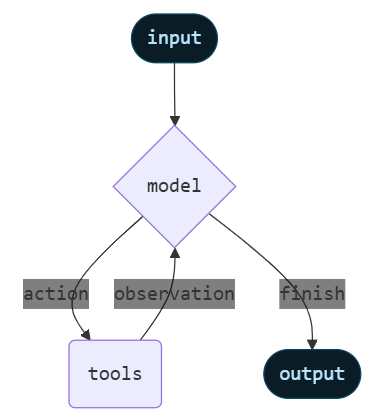
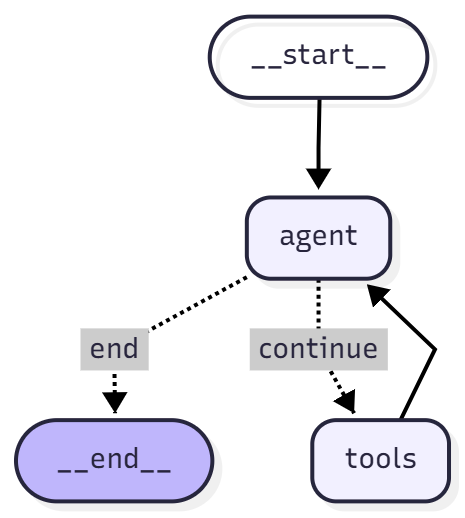
fix custom llm tool calling...

diff --git a/llm_integration/llm_client.py b/llm_integration/llm_client.py
@@ -4,9 +4,15 @@ from langchain_core.messages.ai import AIMessage
 from langchain_core.callbacks.manager import CallbackManagerForLLMRun
 from langchain_core.outputs import ChatResult
 from langchain_core.outputs.chat_generation import ChatGeneration
-from typing import Any
+from langchain_core.tools.base import BaseTool
+from langchain_core.runnables.base import Runnable
+from langchain_core.language_models.base import LanguageModelInput
+from langchain_core.utils.function_calling import convert_to_openai_tool
+from langchain.messages import ToolCall
 import os
 from groq import Groq
+import typing
+from typing import Any, Sequence, Callable, Optional, List, Dict
 import sys
 sys.stderr = open(os.devnull, 'w')
 
@@ -15,7 +21,7 @@ class LLMClient:
     def __init__(self):
         self.api_key = os.environ.get('GROQ_API_KEY')
         self.client = Groq(api_key=self.api_key)
-        self.model = "llama-3.3-70b-versatile"
+        self.model = "qwen/qwen3-32b" #'llama-3.1-8b-instant' #"llama-3.3-70b-versatile"
 
     def generate_response(self, prompt: str) -> Any:
         """Generate a response from the LLM."""
@@ -27,11 +33,13 @@ class LLMClient:
                 }
             ],
             model=self.model,
+            include_reasoning=False,
         )
         return chat_completion.choices[0].message.content
 
 class OpenLLM(BaseChatModel):
     llm: LLMClient = LLMClient()
+    bound_tools: Optional[List[Dict]] = None
 
     def _generate(
         self,
@@ -51,11 +59,65 @@ class OpenLLM(BaseChatModel):
         Returns:
             The chat result.
         """
-        prompt = "\n".join([message.content for message in messages])
+        system_instruction = ""
+        if self.bound_tools:
+            tools_json = [t["function"] for t in self.bound_tools]
+            system_instruction = (
+                f"\nYou have access to the following tools:\n{tools_json}\n"
+                "If you need to use a tool, output ONLY a JSON object with 'name' and 'arguments'."
+            )
+
+        prompt = messages[-1].content + system_instruction
         response_text = self.llm.generate_response(prompt)
-        generation = ChatGeneration(message=AIMessage(content=response_text))
+
+        message_kwargs = {}
+        tool_calls = []
+        
+        try:
+            # Simple check: assumes model outputs pure JSON for tools
+            import json, uuid
+            if "{" in response_text and "}" in response_text:
+                response_text = response_text.split('json')[-1].split('```')[0]
+                data = json.loads(response_text)
+                if "name" in data and "arguments" in data:
+                    tool_calls.append({
+                        "name":data["name"],
+                        "args":data["arguments"],
+                        "id":uuid.uuid4().hex,
+                        "type": "tool_call"
+                    })
+        except Exception:
+            pass
+        final_message = AIMessage(
+            content=response_text if not tool_calls else "",
+            tool_calls=tool_calls,
+        )
+        generation = ChatGeneration(message=final_message)
         return ChatResult(generations=[generation])
     
     def _llm_type(self) -> str:
         return "openllm"
     
+    def bind_tools(
+        self,
+        tools: Sequence[
+            typing.Dict[str, Any] | type | Callable | BaseTool  # noqa: UP006
+        ],
+        *,
+        tool_choice: str | None = None,
+        **kwargs: Any,
+    ) -> Runnable[LanguageModelInput, AIMessage]:
+        """Bind tools to the model.
+
+        Args:
+            tools: Sequence of tools to bind to the model.
+            tool_choice: The tool to use. If "any" then any tool can be used.
+
+        Returns:
+            A Runnable that returns a message.
+
+        """
+        formatted_tools = [convert_to_openai_tool(tool) for tool in tools]
+        
+        # Return a new instance of your class with the tools attached
+        return self.__class__(bound_tools=formatted_tools, **self.dict())

diff --git a/app.py b/app.py
@@ -1,5 +1,122 @@
-from llm_integration.llm_client import OpenLLM
+from typing import (
+    Annotated,
+    Sequence,
+    TypedDict,
+)
+from langchain_core.messages import BaseMessage
+from langgraph.graph.message import add_messages
 
-llm = OpenLLM()
-response = llm.invoke([{"role": "user", "content": "Do you have my file system access?"}])
-print(response)
+
+class AgentState(TypedDict):
+    """The state of the agent."""
+    messages: Annotated[Sequence[BaseMessage], add_messages]
+
+from llm_integration.llm_client import OpenLLM
+from llm_tools import filesystem_tools
+
+tools = filesystem_tools.get_langchain_tools()
+model = OpenLLM()
+
+from langchain_groq import ChatGroq
+model = ChatGroq(
+    model_name="qwen/qwen3-32b", #'llama-3.1-8b-instant', #"llama-3.3-70b-versatile",
+    temperature=0.7
+)
+
+model = model.bind_tools(tools=tools)
+
+import json
+from langchain_core.messages import ToolMessage, SystemMessage
+from langchain_core.runnables import RunnableConfig
+
+tools_by_name = {tool.name: tool for tool in tools}
+
+# Define our tool node
+def tool_node(state: AgentState):
+    outputs = []
+    for tool_call in state["messages"][-1].tool_calls:
+        print("Invoking tool:", tool_call)
+        tool = tools_by_name.get(tool_call["name"])
+        try:
+            tool_result = tool.invoke(tool_call["args"])
+        except Exception as e:
+            import traceback
+            tb = traceback.format_exc()
+            tool_result = {"error": str(e)}
+
+        # If the tool already returned a ToolMessage, forward it directly.
+        if isinstance(tool_result, ToolMessage):
+            outputs.append(tool_result)
+        else:
+            # Ensure content is serializable JSON or a string
+            try:
+                content = json.dumps(tool_result)
+            except Exception:
+                content = str(tool_result)
+            outputs.append(
+                ToolMessage(
+                    content=content,
+                    name=tool_call["name"],
+                    tool_call_id=tool_call["id"],
+                )
+            )
+    return {"messages": outputs}
+
+
+# Define the node that calls the model
+def call_model(
+    state: AgentState,
+    config: RunnableConfig,
+):
+    # this is similar to customizing the create_react_agent with 'prompt' parameter, but is more flexible
+    system_prompt = SystemMessage(
+        "You are a helpful AI assistant, please respond to the users query to the best of your ability!"
+    )
+    response = model.invoke([system_prompt] + state["messages"], config)
+    return {"messages": [response]}
+
+
+# Define the conditional edge that determines whether to continue or not
+def should_continue(state: AgentState):
+    messages = state["messages"]
+    last_message = messages[-1]
+    if last_message.tool_calls:
+        return "continue"
+    else:
+        return "end"
+    
+from langgraph.graph import StateGraph, END
+
+# Define a new graph
+workflow = StateGraph(AgentState)
+
+# Define the two nodes we will cycle between
+workflow.add_node("agent", call_model)
+workflow.add_node("tools", tool_node)
+
+workflow.set_entry_point("agent")
+workflow.add_conditional_edges(
+    "agent",
+    should_continue,
+    {
+        "continue": "tools",
+        "end": END,
+    },
+)
+workflow.add_edge("tools", "agent")
+
+graph = workflow.compile()
+# print(graph.get_graph().draw_mermaid())
+
+# Helper function for formatting the stream nicely
+def print_stream(stream):
+    for s in stream:
+        message = s["messages"][-1]
+        if isinstance(message, tuple):
+            print(message)
+        else:
+            message.pretty_print()
+
+
+inputs = {"messages": [("user", "summarise the llm_client.py file")]}
+print_stream(graph.stream(inputs, stream_mode="values"))
